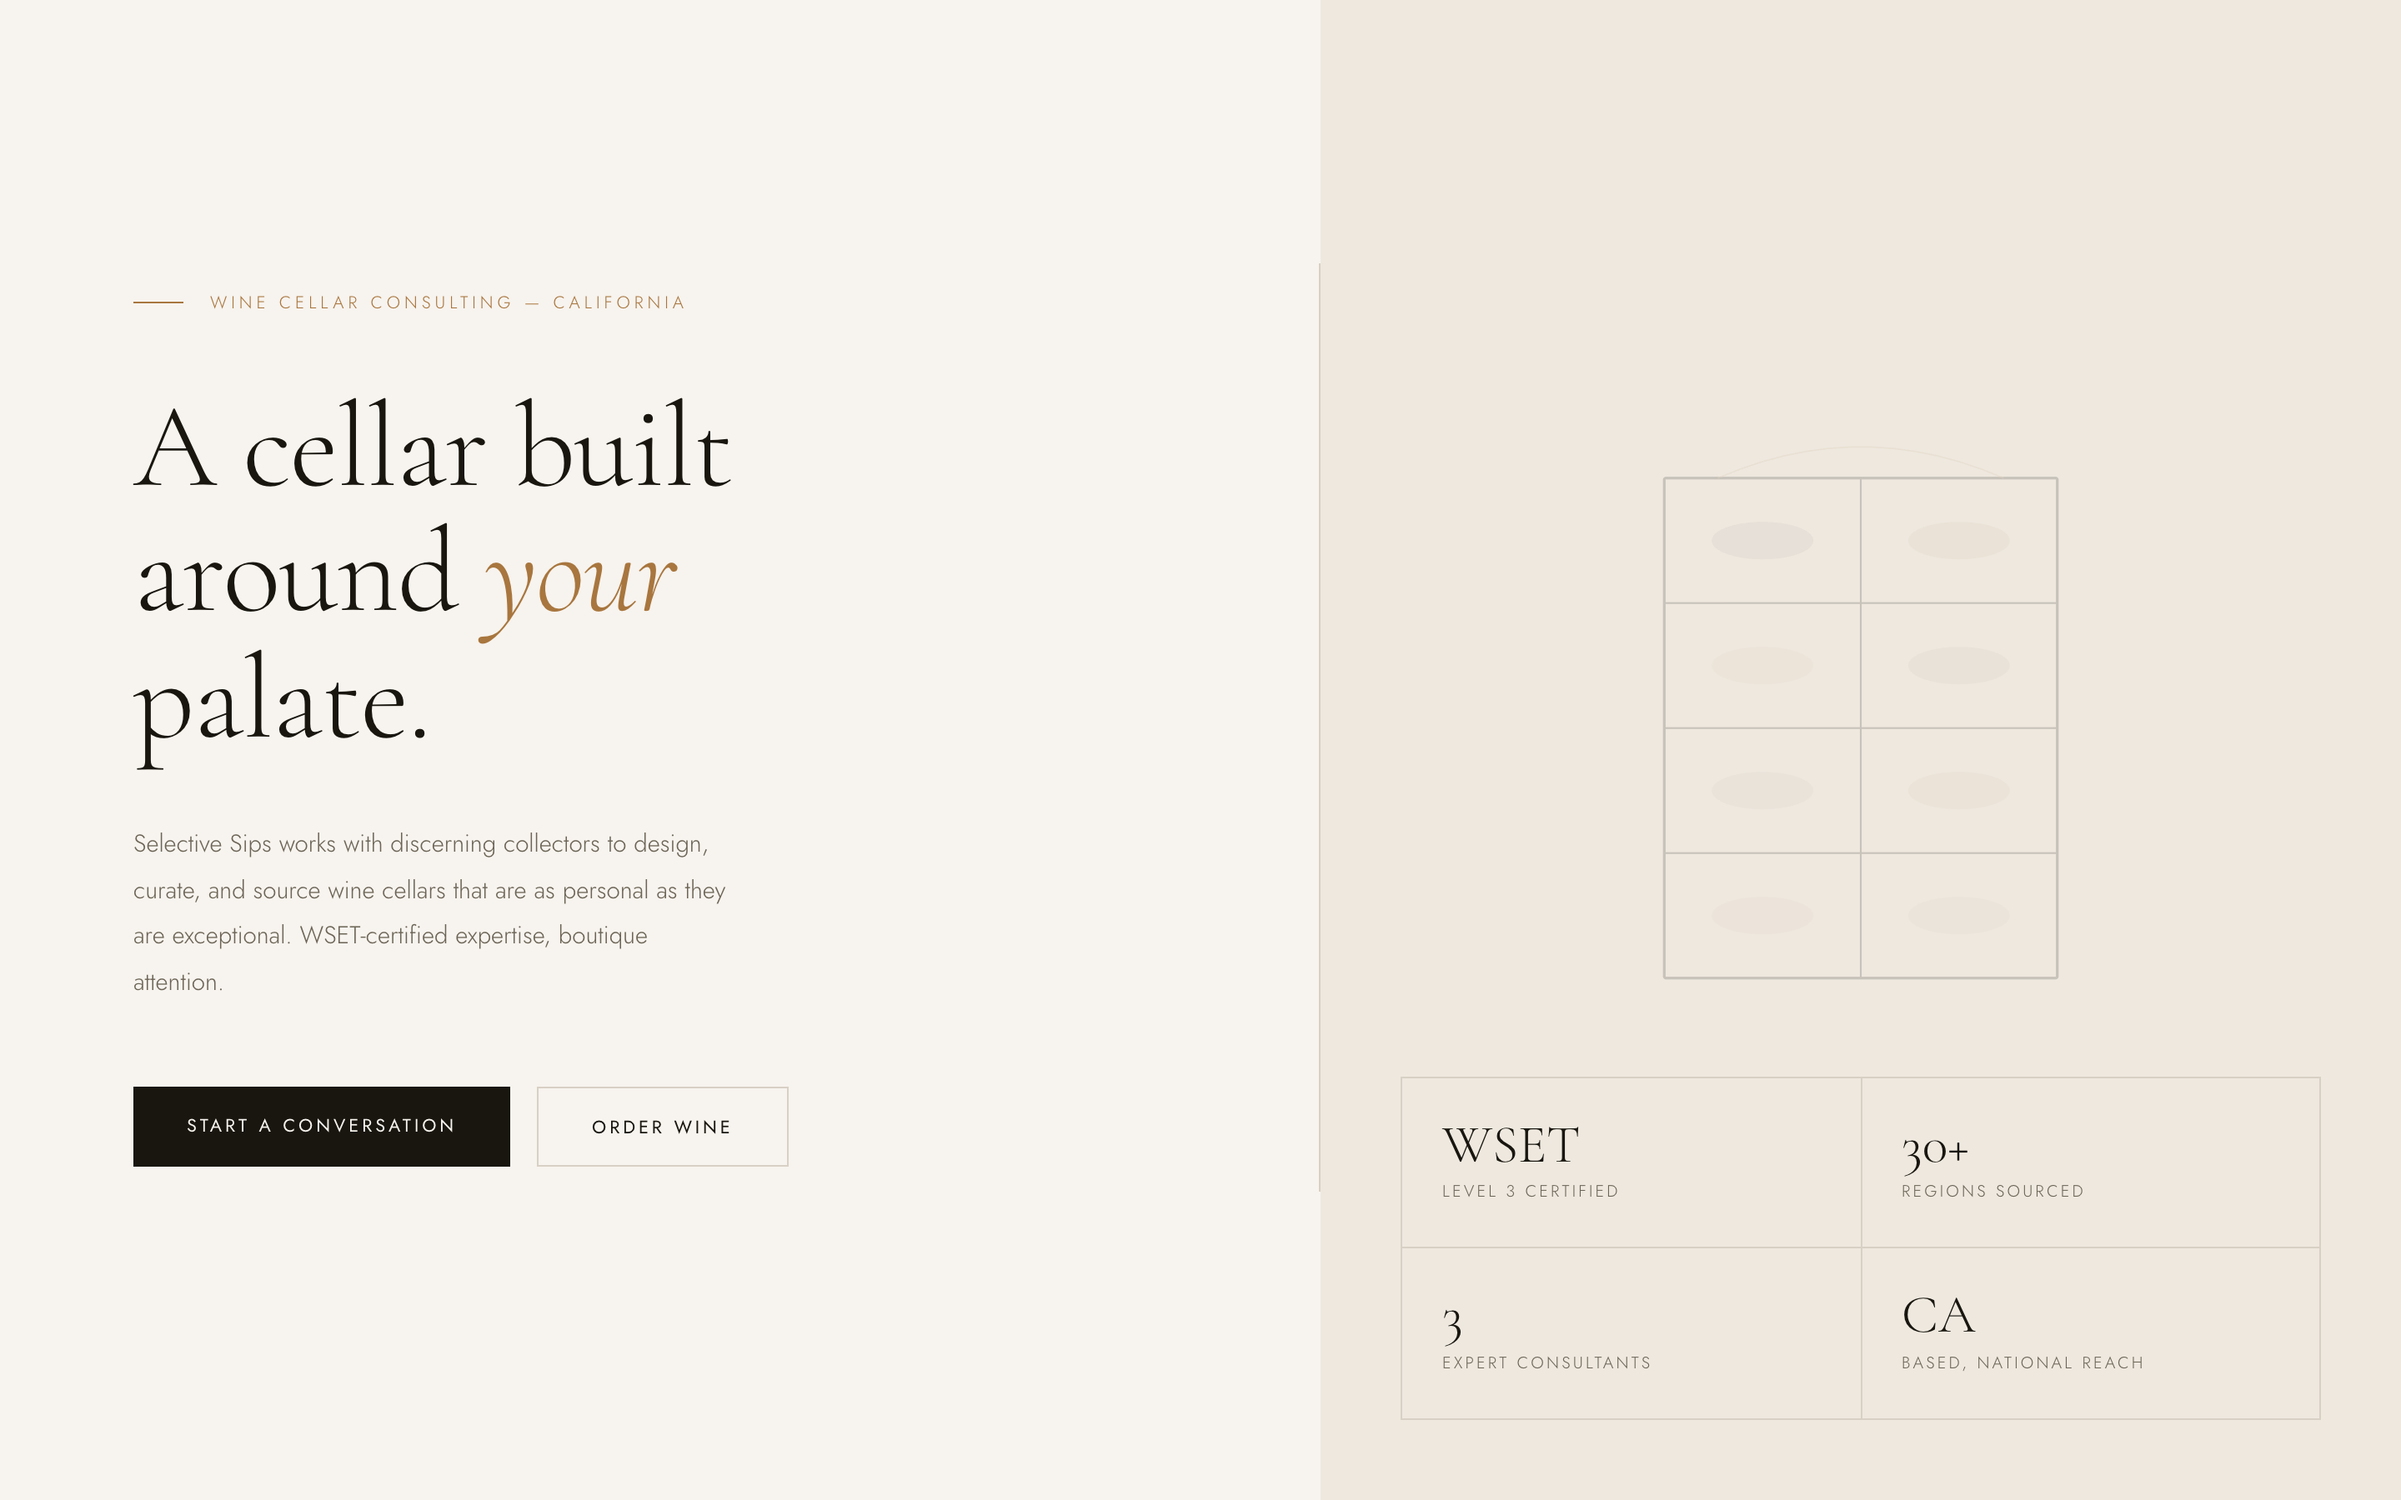
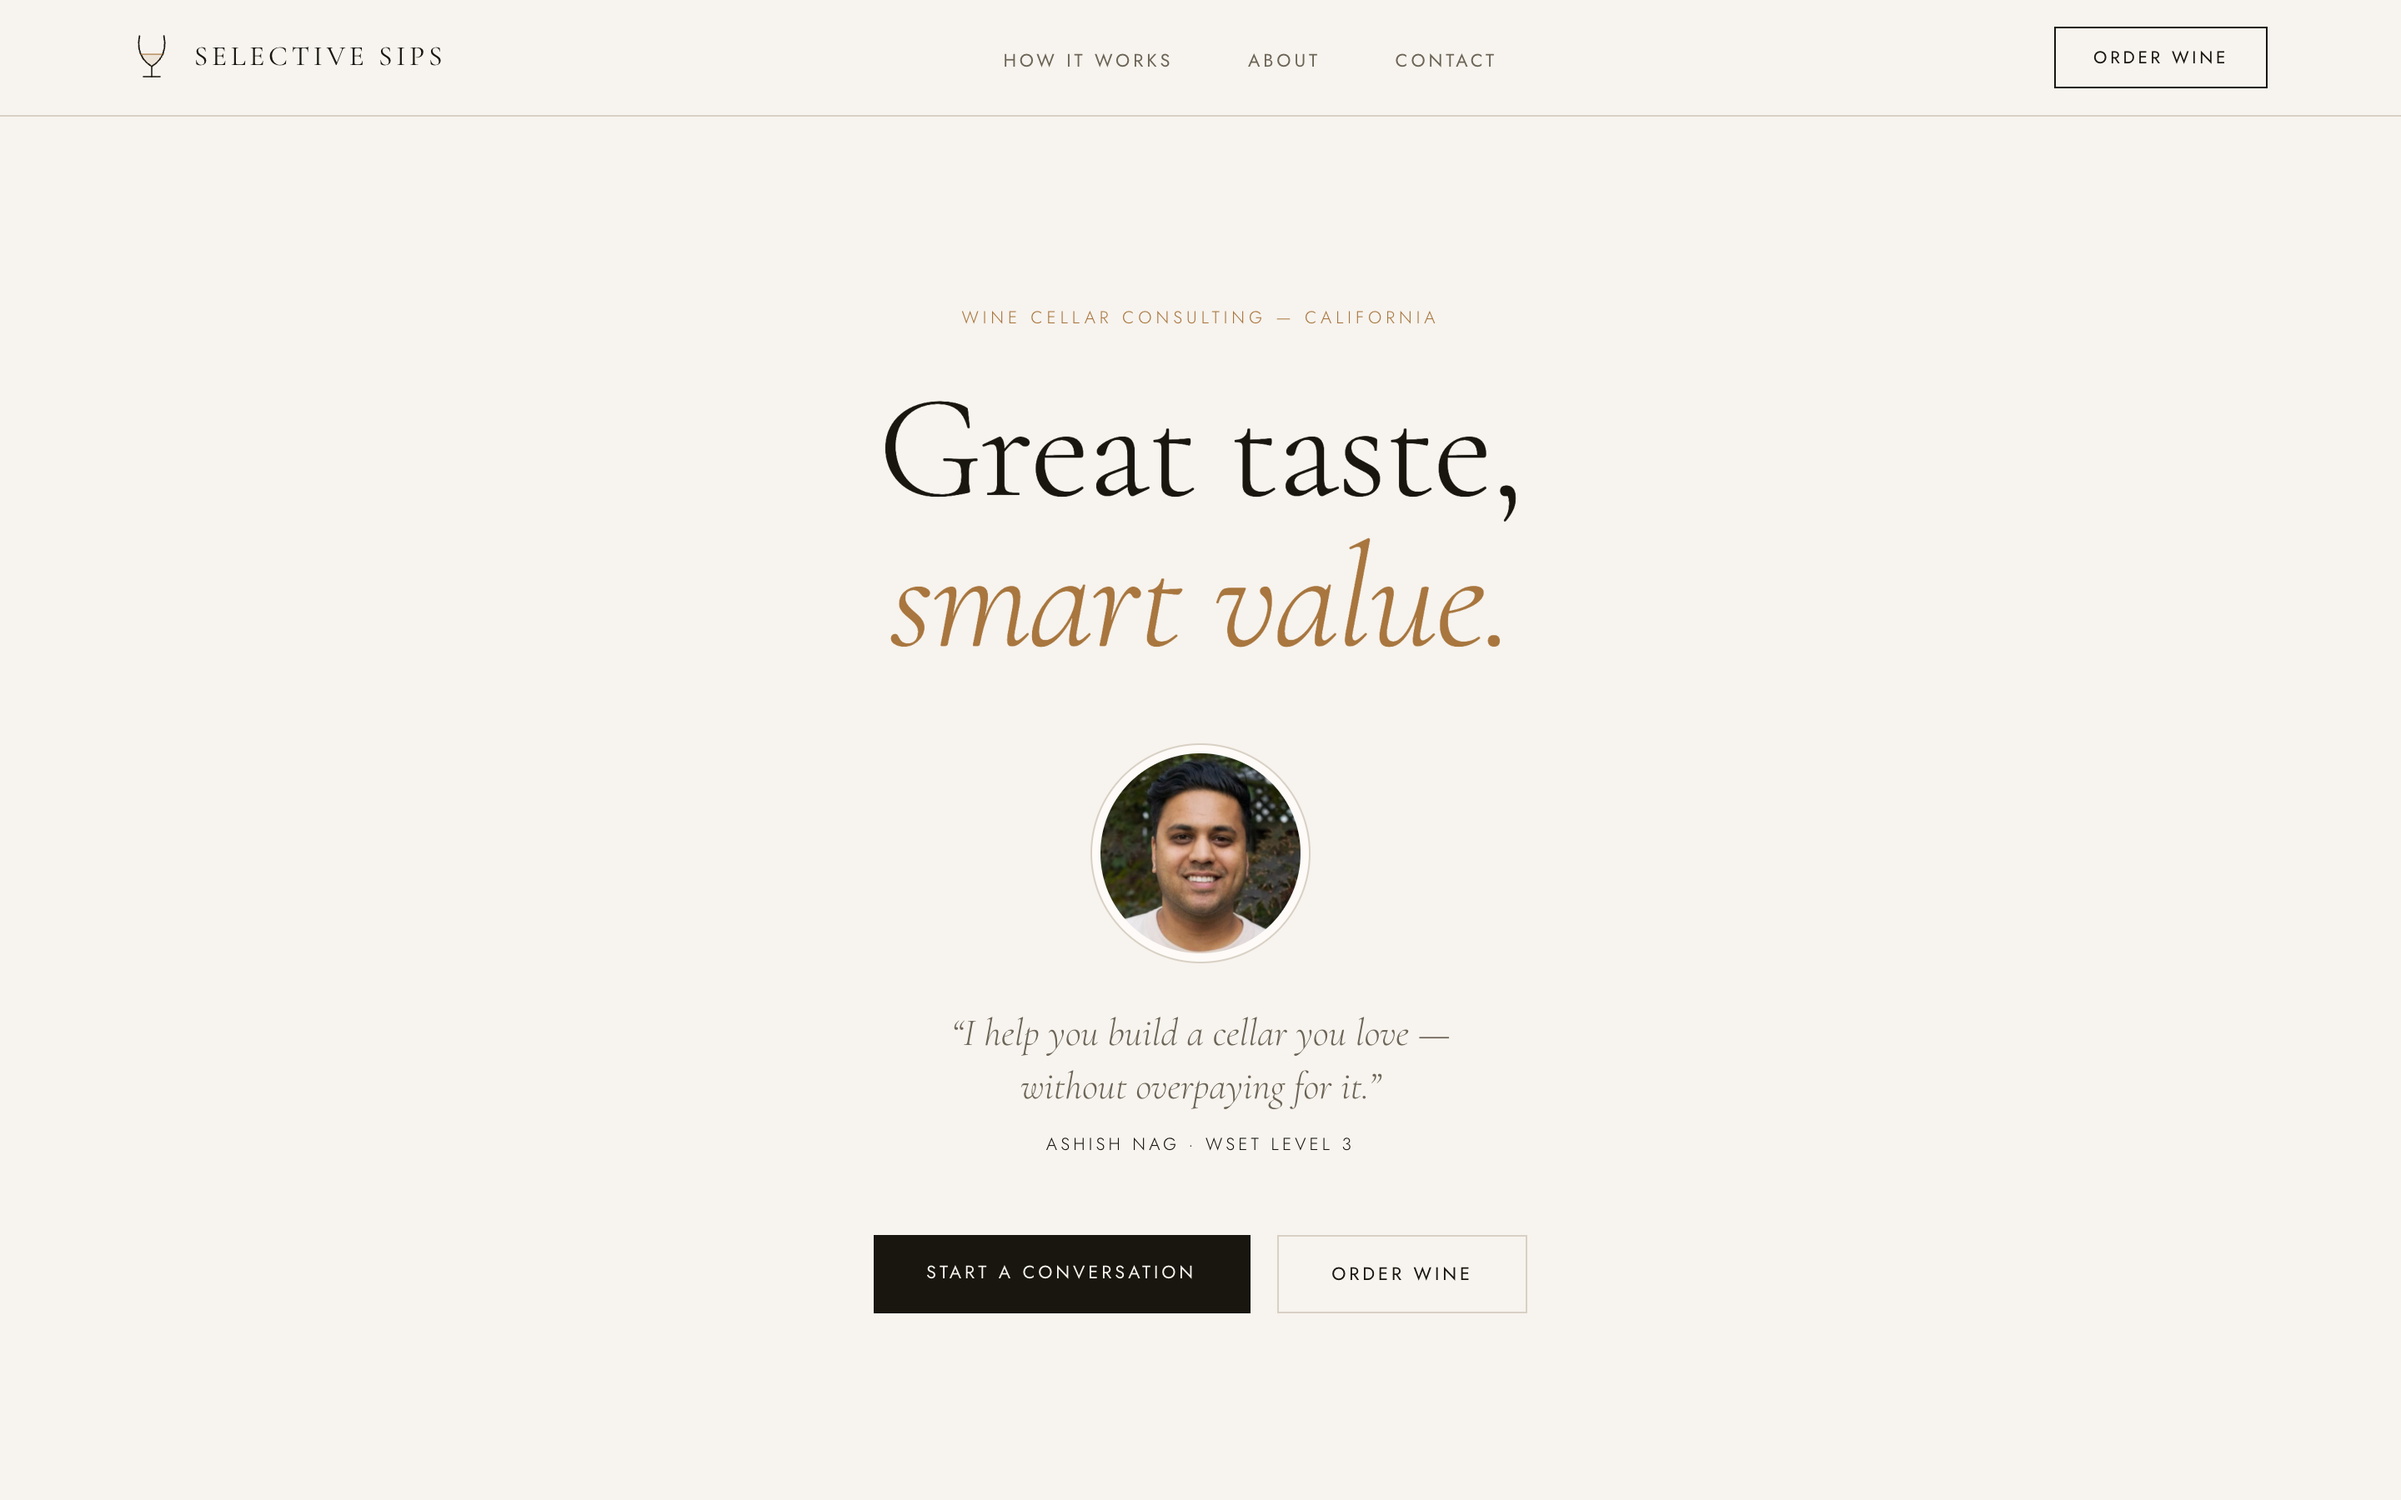
Update Selective Sips to match its redesigned site (#8)
New thumbnail, role and description from the redesigned selectivesips.com.

diff --git a/docs/content.md b/docs/content.md
@@ -23,7 +23,7 @@ I also build software myself. Using modern AI tooling, I take ideas from brief t
 
 ### Selective Sips
 
-Founder & Lead Consultant. Cellar strategy, sourcing, and collection management for private clients in California, delivered by a team of three WSET Level 3–certified consultants.
+Founder & Advisor. Wine cellar consulting in California. I help private collectors build a cellar they love without overpaying: one WSET Level 3–certified advisor, value-first picks from the Old World and New, and no upsell. (Updated 2026-11-01 to match the redesigned selectivesips.com, which presents a single advisor rather than a team of three.)
 Link: https://selectivesips.com · Asset: Selective Sips logo, `src/assets/ventures/selectivesips-logo.svg` (reversed version for dark mode)
 
 ### Settld
